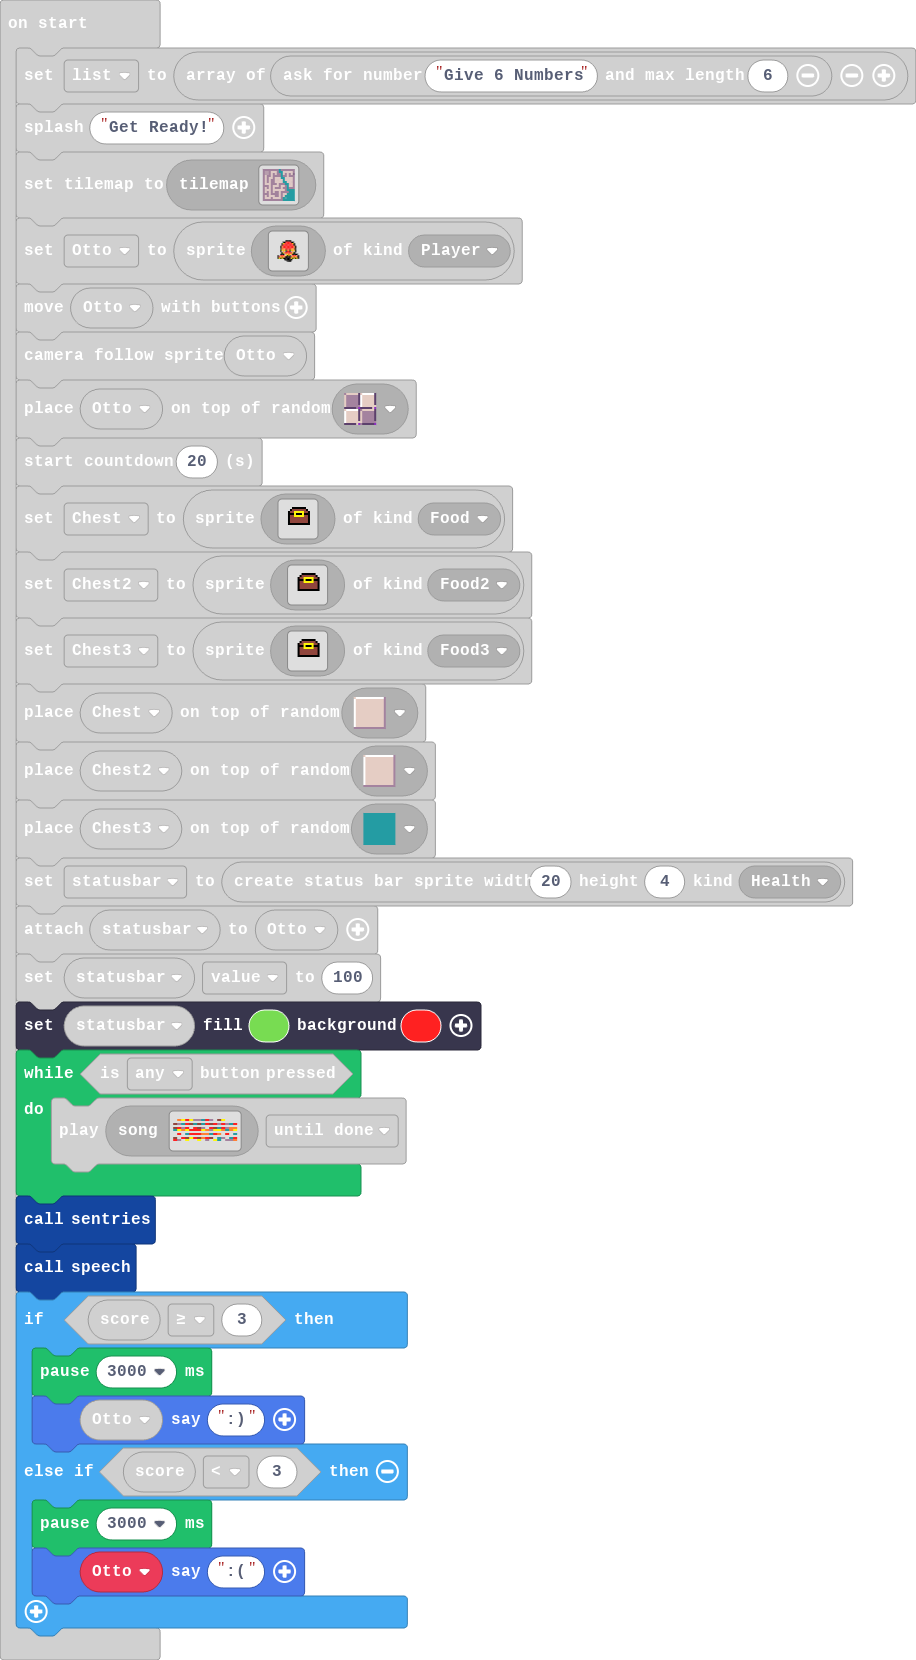
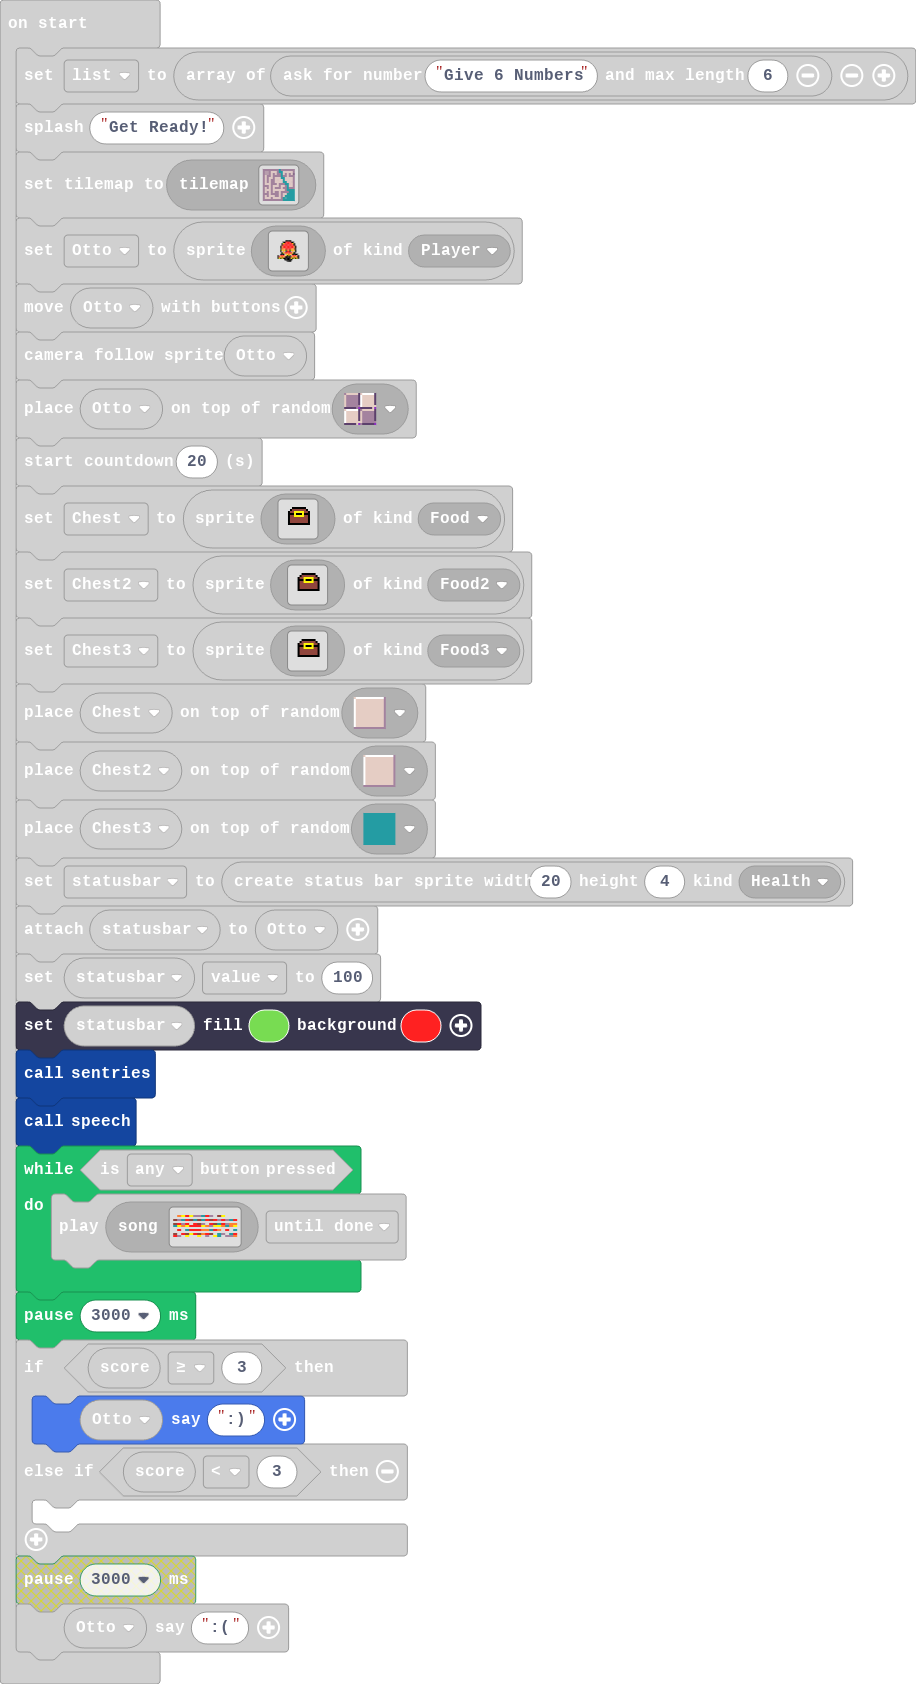
Update main.blocks, main.ts

diff --git a/main.ts b/main.ts
@@ -152,15 +152,14 @@ statusbar = statusbars.create(20, 4, StatusBarKind.Health)
 statusbar.attachToSprite(Otto)
 statusbar.value = 100
 statusbar.setColor(7, 2)
+sentries()
+speech()
 while (controller.anyButton.isPressed()) {
[1 lines of base64/hex data omitted]
 }
-sentries()
-speech()
+pause(3000)
 if (info.score() >= 3) {
-    pause(3000)
     Otto.sayText(":)")
 } else if (info.score() < 3) {
-    pause(3000)
     Otto.sayText(":(")
 }
